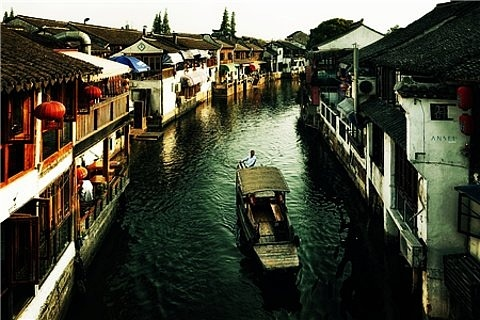
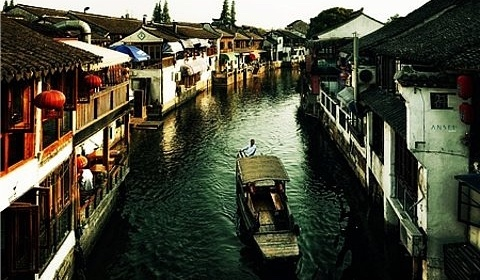
next button txt position

diff --git a/media/templates/shanghai/infoPage.html b/media/templates/shanghai/infoPage.html
@@ -72,7 +72,7 @@
     <section class="image">
       <div id="eventImage">
         <div>
-          <img src="{{ url_for('static', filename=info['image_file']) }}" width="376" height="276">
+          <img src="{{ url_for('static', filename=info['image_file']) }}" width="376">
         </div>
       </div>
     </section>
@@ -81,9 +81,19 @@
     <section class="descriptionShort">
       <div class="paragraphShort">
         <!-- <div id="firstCharacter">{{ (info['headword']) }}</div> -->
+        {% if user['day'] == 5 %}
+        <div id="descriptionShortPara" style="top: -12px;">
+          {{ (info['short_description']) }}
+        </div>
+        {% elif user['day'] == 6 %}
+        <div id="descriptionShortPara" style="top: -30px;">
+          {{ (info['short_description']) }}
+        </div>
+        {% else %}
         <div id="descriptionShortPara">
           {{ (info['short_description']) }}
         </div>
+        {% endif %}
       </div>
     </section>
 

diff --git a/media/templates/shanghai/infoPageAQ.html b/media/templates/shanghai/infoPageAQ.html
@@ -66,7 +66,7 @@
     <section class="image">
       <div id="eventImage">
         <div>
-          <img src="{{ url_for('static', filename=info['image_file']) }}" width="376" height="276">
+          <img src="{{ url_for('static', filename=info['image_file']) }}" width="376">
         </div>
       </div>
     </section>
@@ -75,9 +75,19 @@
     <section class="descriptionShort">
       <div class="paragraphShort">
         <!-- <div id="firstCharacter">{{ (info['headword']) }}</div> -->
+        {% if user['day'] == 5 %}
+        <div id="descriptionShortPara" style="top: -12px;">
+          {{ (info['short_description']) }}
+        </div>
+        {% elif user['day'] == 6 %}
+        <div id="descriptionShortPara" style="top: -30px;">
+          {{ (info['short_description']) }}
+        </div>
+        {% else %}
         <div id="descriptionShortPara">
           {{ (info['short_description']) }}
         </div>
+        {% endif %}
       </div>
     </section>
 

diff --git a/media/templates/shanghai/survey6.html b/media/templates/shanghai/survey6.html
@@ -76,7 +76,7 @@
         <section class="image">
           <div id="eventImage">
             <div>
-              <img src="{{ url_for('static', filename=second_event['image_file']) }}" width="376" height="276">
+              <img src="{{ url_for('static', filename=second_event['image_file']) }}" width="376" height="235">
             </div>
           </div>
         </section>
@@ -85,7 +85,7 @@
         <section class="descriptionShort">
           <div class="paragraphShort">
             <!-- <div id="firstCharacter">平</div> -->
-            <div id="descriptionShortPara">
+            <div id="descriptionShortPara" style="top: -50px;">
               {{ (second_event['short_description']) }}
             </div>
           </div>
